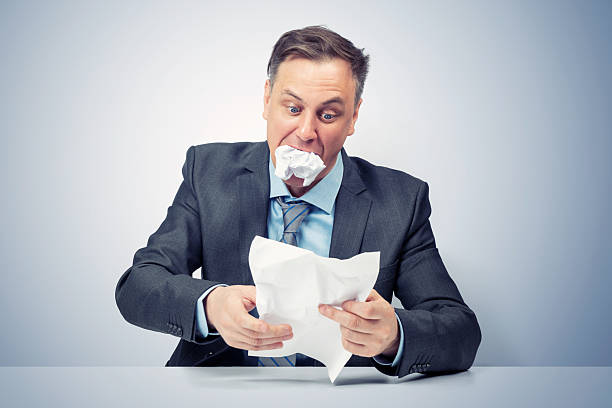
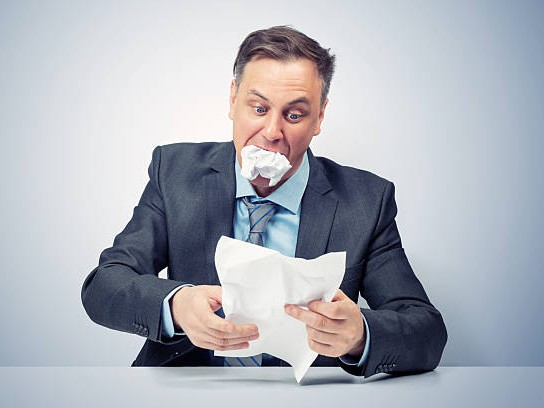
Finalized new index.html, downloaded images of golf court, fixed fonts

diff --git a/style.css b/style.css
@@ -1,6 +1,6 @@
 @font-face {
     font-family: 'Equinox';
-    src: url('fonts/Equinox\ Regular.otf') format('opentype');
+    src: url('Fonts/equinox-regular.otf') format('opentype');
 
     font-display: swap;
     font-style: normal;
@@ -8,7 +8,7 @@
 
 @font-face {
     font-family: 'Manrope';
-    src: url('fonts/Manrope-VariableFont_wght.ttf') format('truetype');
+    src: url('Fonts/manrope-variable-font-wght.ttf') format('truetype');
 
     font-display: swap;
     font-style: normal;
@@ -89,7 +89,7 @@ hr {
     margin: 0px;
     padding: 10px;
 
-    font-size: 12pt;
+    font-size: 16pt;
     color: var(--indigo-b);
 
     align-content: center;
@@ -150,13 +150,14 @@ hr {
     min-height: 100vh;
 }
 
-.menu-img {
+img {
     justify-self: center;
+    align-self: center;
 
     padding: 5px;
     margin: 20px auto;
 
-    width: 95%;
+    max-width: 95%;
 
     box-shadow: var(--shadow);
 
@@ -164,7 +165,7 @@ hr {
 }
 
 .page-title {
-    margin: 0px;
+    margin: 0px auto 20px auto;
     padding: 0px;
 
     font-size: 32pt;
@@ -212,4 +213,76 @@ textarea {
     field-sizing: content;
 
     min-height: 10rem;
+}
+
+p {
+    margin: 10px;
+    padding: 0px;
+}
+
+.img-carousel {
+    display: grid;
+
+    justify-self: center;
+    align-self: center;
+
+    box-sizing: border-box;
+
+    background-color: var(--indigo-b);
+
+    border-radius: 10px;
+
+    width: 100%;
+
+    padding: 40px;
+    gap: 20px;
+
+    box-shadow: var(--shadow);
+
+    transition: 0.3s;
+}
+
+.img-carousel:hover {
+    box-shadow: var(--focused-shadow);
+
+    transform: scale(1.01);
+}
+
+#ad-banner, .ad-box {
+    background-color: var(--turquoise-lg);
+
+    font-family: var(--body-font);
+
+    text-align: center;
+
+    color: var(--indigo-b);
+
+    box-shadow: var(--shadow);
+
+    margin: 0px;
+    padding: 10px;
+
+    transition: 0.3s;
+}
+
+#ad-banner {
+    font-size: 16pt;
+
+    width: 100vw;
+}
+
+.ad-box {
+    font-size: 30pt;
+
+    border-radius: 10px;
+
+    margin: 30px 0px;
+}
+
+#ad-banner:hover, .ad-box:hover {
+    box-shadow: var(--focused-shadow);
+}
+
+.ad-box:hover {
+    transform: scale(1.01);
 }

diff --git a/index.html b/index.html
@@ -2,7 +2,7 @@
 
 <html>
     <head>
-        <title>Galaxy Golf Booking Form</title>
+        <title>Galaxy Golf Arcade and Bar</title>
         <meta charset="utf-8">
 
         <link rel="stylesheet" href="style.css">
@@ -16,12 +16,27 @@
             <a href="booking-form.html" target="_self" class="special-button">Book Your Next Golf Outing!</a>
         </div>
 
+        <p id="ad-banner">ALL BOOKINGS OF PARTIES WITH 4+ PEOPLE ARE 50% OFF; ENDS JULY 18TH!!</p>
+
         <div id="page-body">
             <h1 class="page-title">Welcome to Galaxy Golf Arcade and Bar!</h1>
             <p style="text-align: center;">Play on our great golf courses!</p>
             <p style="text-align: center;">Eat on our great food and bites!</p>
             <p style="text-align: center;">Play endlessly on our amazing games!</p>
             <hr>
+
+            <p style="text-align: center; font-size: 14pt;">Take a look at our amazing golf courses and arcade.</p>
+
+            <div class="img-carousel" style="grid-template-columns: 1fr 1fr 1fr;">
+                <img src="Golf Court/paper-man-2.jpg">
+                <img src="Golf Court/best-backdrop.jpg">
+                <img src="Golf Court/paper-man-3.jpg">
+                <img src="Golf Court/thirsty-male-of-no-decernable-sexuality.png">
+                <img src="Golf Court/paper-man-1.jpg">
+                <img src="Golf Court/gaper-bingzoid.png">
+            </div>
+
+            <p class="ad-box">GET 50% OFF FOR ALL BOOKINGS WITH PARTIES OF 4+!! BOOK NOW, DEAL ENDS ON JULY 18TH!</p>
 
         </div>
     </body>

diff --git a/menu.html b/menu.html
@@ -12,16 +12,15 @@
 
             <a href="login.html" target="_self" class="button">Login</a>
             <a href="booking-form.html" target="_self" class="special-button">Book Your Next Golf Outing!</a>
-        </div>
-        
+        </div>        
         
         <div id="page-body">
             <h1 class="page-title">Our Delectable Menu</h1>
             <hr>
 
-            <img src="menu/menu1.png" class="menu-img">
-            <img src="menu/menu2.png" class="menu-img">
-            <img src="menu/menu3.png" class="menu-img">
+            <img src="menu/menu1.png">
+            <img src="menu/menu2.png">
+            <img src="menu/menu3.png">
         </div>
     </body>
 </html>

diff --git a/booking-form.html b/booking-form.html
@@ -15,6 +15,8 @@
             <a href="menu.html" target="_self" class="button">Snack Bar Menu</a>
         </div>
 
+        <p id="ad-banner">ALL BOOKINGS OF PARTIES WITH 4+ PEOPLE ARE 50% OFF; ENDS JULY 18TH!!</p>
+
         <div id="page-body">
             <h1 class="page-title">Book Your Next Golf Outing!</h1>
             <hr>
